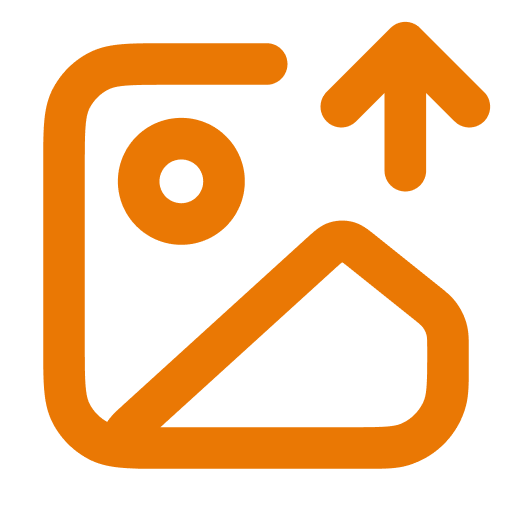
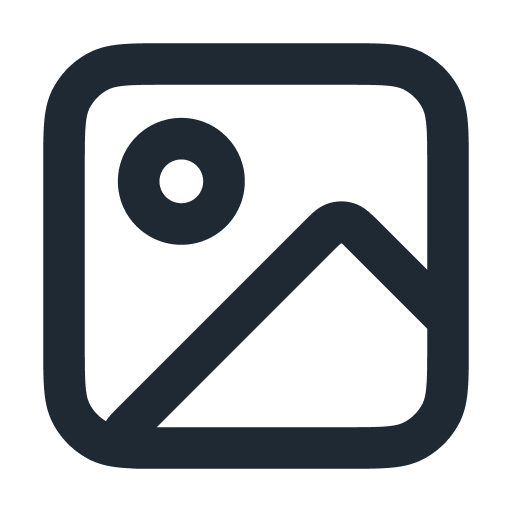
upload functionality

diff --git a/src/screens/newObservation/AddNewEvidenceCard.tsx b/src/screens/newObservation/AddNewEvidenceCard.tsx
@@ -48,6 +48,7 @@ type RatingInputTypes = {
   onChangeRating: (rating: number) => void;
 };
 
+
 const RatingInput: FC<RatingInputTypes> = ({ label, rating, onChangeRating }) => {
   const [selectedRating, setSelectedRating] = useState(rating);
 
@@ -109,6 +110,13 @@ const AddNewEvidenceCard: FC<AddNewEvidenceCardScreenProps> = ({
   navigation,
   route,
 }) => {
+
+
+  type ImageItemProps = {
+    item: DocumentPickerResponse;
+    onRemove: (item: DocumentPickerResponse) => void;
+  };
+
   const [selectedIndicator, setSelectedIndicator] = useState<string>('');
   const [selectedDomain, setSelectedDomain] = useState<string>('');
   const [rating, setRating] = useState<number>(0);
@@ -127,29 +135,45 @@ const AddNewEvidenceCard: FC<AddNewEvidenceCardScreenProps> = ({
     console.log("mergedArray", mergedArray);
     setImageFiles(mergedArray);
   };
-  const ImageItem = ({ item }) => {
+
+  const handleRemoveItem = (item: DocumentPickerResponse) => {
+    const updatedFiles = imageFiles.filter(file => file.uri !== item.uri);
+    setImageFiles(updatedFiles);
+  };
+
+
+
+  const ImageItem: FC<ImageItemProps> = ({ item, onRemove }) => {
     return (
       <View style={styles.progressContainer}>
-        <View style={{ flexDirection: 'row', width: '95%' }}>
+        <View style={{ flexDirection: 'row', width: '90%', }}>
           <View>
-            {/* Render your icons based on item.type */}
-            {/* <Image name='img_upload_icon' /> */}
-            {/* <Image name='mic_icon' /> */}
-            {/* <Image name='attachment' /> */}
+            {
+              item.type?.startsWith('image') ? (
+                <Image name='img_upload_icon' />
+              ) :
+                item.type?.startsWith('video') ? (
+                  <Image name='video_icon' />
+                ) :
+                  item.type?.startsWith('audio') ? (
+                    <Image name='mic_icon' />
+                  ) :
+                    (
+                      <Image name='attachment' />
+                    )
+            }
           </View>
           <View>
             <Text style={styles.dropZoneText}>{item.name}</Text>
-            {/* Render upload progress if needed */}
-            {/* <Text style={styles.supportedTypes}>{` ${uploadProgress}% completed`}</Text> */}
           </View>
         </View>
-        <TouchableOpacity style={{ alignSelf: 'center' }} onPress={onPress}>
-          {/* Render your cross icon */}
-          <Image name='cross_icon' />
-          {/* <Icon style={{ marginLeft: 3, backgroundColor: 'transparent' }} name="cross_icon" /> */}
-        </TouchableOpacity>
-        {/* Render your progress bar if needed */}
-        {/* <ProgressBarAndroid styleAttr="Horizontal" color="#749E35" indeterminate={false} progress={uploadProgress / 100} style={{ width: '100%' }} /> */}
+        {/* <View style={{ width: '10%', height: '100%', justifyContent: 'center', alignItems: 'center' }}> */}
+          <TouchableOpacity style={{ alignItems: 'center',justifyContent: 'flex-end', width: '10%'}}
+            onPress={() => onRemove(item)}
+          >
+            <Image name='cross_icon' />
+          </TouchableOpacity>
+        {/* </View> */}
       </View>
     );
   };
@@ -206,39 +230,7 @@ const AddNewEvidenceCard: FC<AddNewEvidenceCardScreenProps> = ({
             data={imageFiles}
             extraData={imageFiles}
             style={{ marginVertical: 10 }}
-            renderItem={({ item }) => (
-            
-              <View style={styles.progressContainer}>
-                <View style={{ flexDirection: 'row', width: '95%', }}>
-                  <View>
-                    {
-                      item.type == 'image'
-                    }
-                    {/* <Image name='img_upload_icon' /> */}
-                    {/* <Image name='mic_icon' /> */}
-                    {/* <Image name='attachment' /> */}
-
-                  </View>
-                  <View>
-                    <Text style={styles.dropZoneText}>{item.name}</Text>
-                    {/* <Text style={styles.supportedTypes}>{` ${uploadProgress}% completed`}</Text> */}
-                  </View>
-                </View>
-                <TouchableOpacity style={{ alignSelf: 'center', }}
-                  onPress={() => {
-                    console.log("mjjjj");
-                  }}
-                >
-                  <Image name='cross_icon' />
-                  {/* <Icon style={{ marginLeft: 3, backgroundColor: 'transparent' }} name="cross_icon" /> */}
-                </TouchableOpacity>
-
-
-                {/* <ProgressBarAndroid styleAttr="Horizontal" color="#749E35" indeterminate={false} progress={uploadProgress / 100} style={{ width: '100%' }} /> */}
-
-              </View>
-
-            )}
+            renderItem={({ item }) => <ImageItem item={item} onRemove={handleRemoveItem} />}
           />
 
 

diff --git a/src/components/Image.tsx b/src/components/Image.tsx
@@ -15,6 +15,8 @@ import upload_icon from '../assets/images/upload_icon.png'
 import cross_icon from '../assets/images/cross_icon.png'
 import mic_icon from '../assets/images/mic_icon.png'
 import attachment from '../assets/images/attachment.png'
+import video_icon from '../assets/images/video_icon.png'
+
 export type ImageIconNames =
   | 'evaluation_icon'
   | 'trash_icon'
@@ -29,6 +31,7 @@ export type ImageIconNames =
   | 'cross_icon'
   | 'attachment'
   | 'mic_icon'
+  | 'video_icon'
 
 
 
@@ -72,7 +75,8 @@ const Image: FC<ImagePropsTypes> = ({ name, size = 1, style, ...rest }) => {
           return { Src: attachment, StyleConst: styles.mic_icon };
         case 'mic_icon':
           return { Src: mic_icon, StyleConst: styles.mic_icon };
-
+          case 'video_icon':
+            return { Src: video_icon, StyleConst: styles.mic_icon };
 
       case 'search_reports_icon':
         width = 85.5 * size;
@@ -130,7 +134,7 @@ const styles = StyleSheet.create({
   cross_icon: {
     height: normaliseDesigns(10),
     width: normaliseDesigns(10),
-    // margin: normaliseDesigns(5)
+    margin: normaliseDesigns(5)
   },
 });
 
